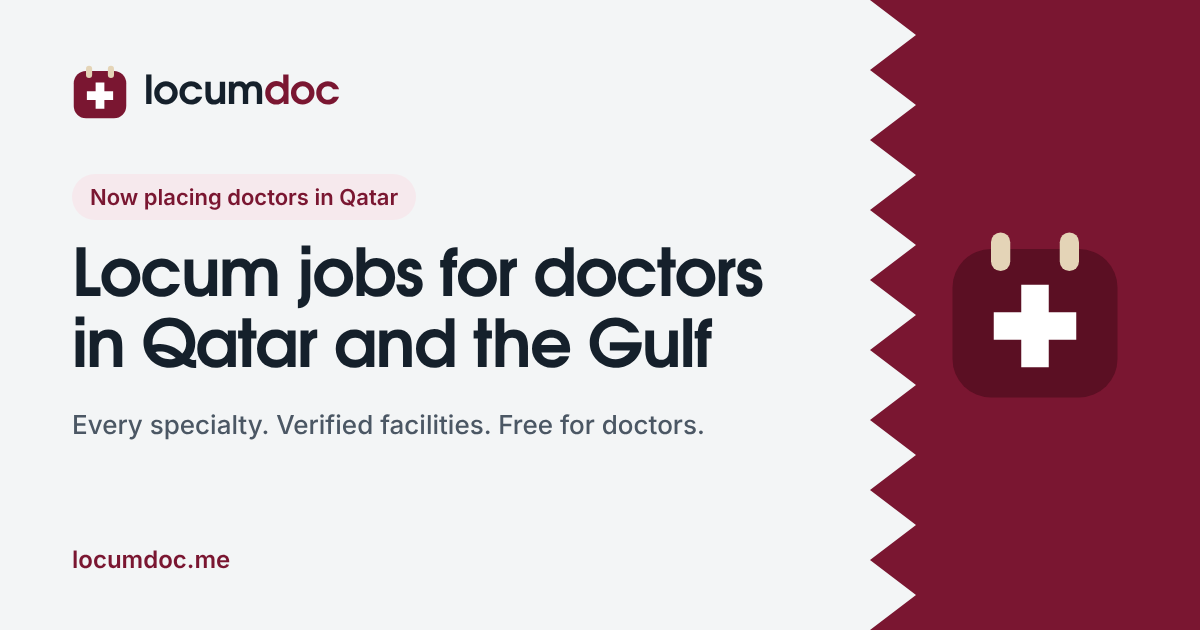
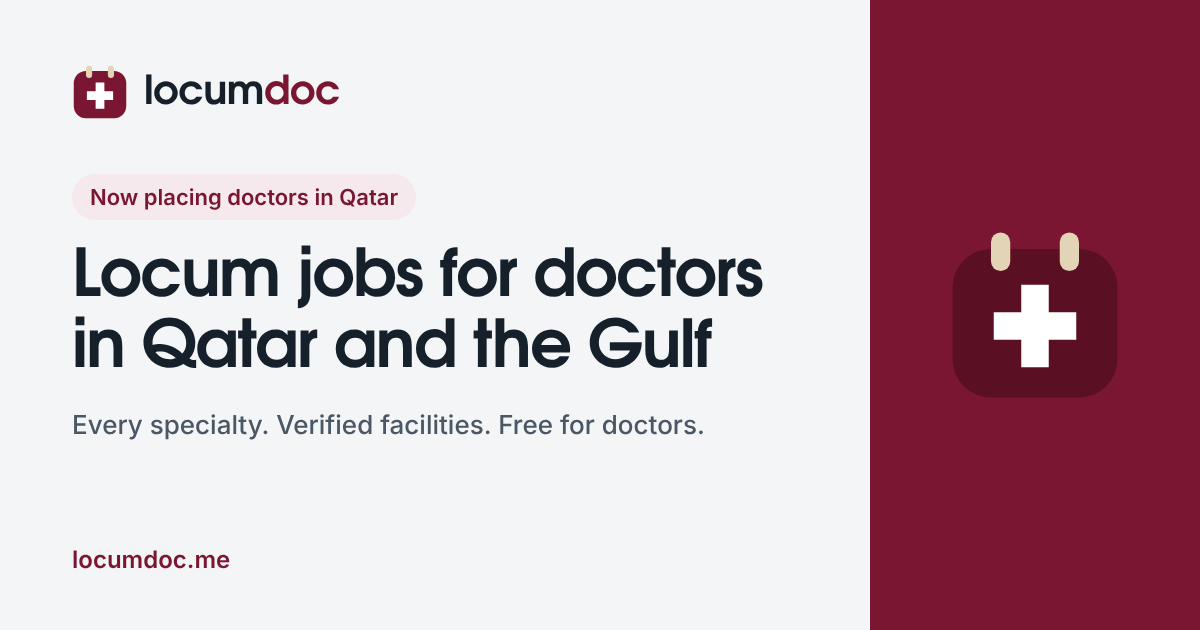
Remove the Qatar flag's serrated edge from the site
- Maroon "How it works" band (home, for facilities) now has a straight edge (.serrated → .band-maroon)
- Hero badges use a map-pin icon instead of the Qatar flag
- Share image (og-en.png) regenerated without the serrated band edge

Claude-Session: https://claude.ai/code/session_01DV4wxzqYCoerpeWRUMkk1p

Changed region(s): [[0.7092, 0.0, 0.7708, 0.9952]]

diff --git a/locumdoc/static/css/site.css b/locumdoc/static/css/site.css
@@ -125,7 +125,8 @@ p { margin: 0 0 1em; max-width: 68ch; }
 .hero { background: var(--surface); padding: clamp(40px, 7vw, 88px) 0 clamp(48px, 7vw, 96px); }
 .hero-grid { display: grid; grid-template-columns: minmax(0, 1fr) minmax(0, 1.05fr); gap: clamp(32px, 5vw, 72px); align-items: start; }
 .launch { display: inline-flex; align-items: center; gap: 10px; font-weight: 500; color: var(--ink-2); margin-bottom: 22px; }
-.launch .flag { width: 26px; height: 16px; border-radius: 2px; overflow: hidden; flex-shrink: 0; box-shadow: 0 0 0 1px var(--line); }
+.launch .pin { width: 28px; height: 28px; border-radius: 999px; background: var(--maroon-soft); color: var(--maroon); display: inline-flex; align-items: center; justify-content: center; flex-shrink: 0; }
+.launch .pin svg { width: 15px; height: 15px; }
 .hero h1 { font-size: clamp(2.5rem, 5.4vw, 4.25rem); line-height: 1.02; letter-spacing: -0.03em; margin-bottom: 24px; }
 .hero .lede { font-size: var(--s1); color: var(--ink-2); max-width: 46ch; margin-bottom: 32px; }
 .hero-ctas { display: flex; flex-wrap: wrap; gap: 12px; }
@@ -153,16 +154,11 @@ p { margin: 0 0 1em; max-width: 68ch; }
 .board-empty p { margin-bottom: 14px; }
 .board-foot { padding: 14px 22px; background: #1b2733; font-size: var(--s-1); color: #9aa6b2; }
 
-/* serrated maroon band (from the Qatari flag's nine-point edge) */
-.serrated { position: relative; background: var(--maroon); color: #fff; padding: clamp(56px, 8vw, 96px) 0; }
-.serrated::before {
-  content: ""; position: absolute; left: 0; right: 0; top: -17px; height: 18px; background: var(--maroon);
-  -webkit-mask: conic-gradient(from 135deg at top, #0000, #000 1deg 89deg, #0000 90deg) 50% / 34px 100%;
-          mask: conic-gradient(from 135deg at top, #0000, #000 1deg 89deg, #0000 90deg) 50% / 34px 100%;
-}
-.serrated h2, .serrated h3 { color: #fff; }
-.serrated p { color: #f0dce2; }
-.serrated a { color: #fff; }
+/* maroon band */
+.band-maroon { position: relative; background: var(--maroon); color: #fff; padding: clamp(56px, 8vw, 96px) 0; }
+.band-maroon h2, .band-maroon h3 { color: #fff; }
+.band-maroon p { color: #f0dce2; }
+.band-maroon a { color: #fff; }
 .tracks { display: grid; grid-template-columns: 1fr 1fr; gap: clamp(32px, 6vw, 80px); margin-top: 40px; }
 .track h3 { font-size: var(--s2); padding-bottom: 16px; border-bottom: 1px solid #9a3a54; margin-bottom: 8px; }
 .steps { list-style: none; margin: 0; padding: 0; counter-reset: step; }
@@ -171,10 +167,10 @@ p { margin: 0 0 1em; max-width: 68ch; }
 .steps strong { display: block; font-weight: 600; margin-bottom: 4px; color: #fff; }
 .steps span { color: #f0dce2; }
 .track .btn { margin-top: 24px; }
-.serrated .btn-outline { background: transparent; color: #fff; border-color: #b45a73; }
-.serrated .btn-outline:hover { border-color: #fff; }
-.serrated .btn-light { background: #fff; color: var(--maroon); }
-.serrated .btn-light:hover { background: var(--sand-soft); }
+.band-maroon .btn-outline { background: transparent; color: #fff; border-color: #b45a73; }
+.band-maroon .btn-outline:hover { border-color: #fff; }
+.band-maroon .btn-light { background: #fff; color: var(--maroon); }
+.band-maroon .btn-light:hover { background: var(--sand-soft); }
 
 /* ---------------------------------------------------------------- sections */
 .section { padding: clamp(56px, 8vw, 104px) 0; }

diff --git a/locumdoc/templates/partials/macros.html b/locumdoc/templates/partials/macros.html
@@ -6,10 +6,6 @@
 <a class="brand" href="{{ href }}" aria-label="{{ _('LocumDoc home') }}">{{ mark() }}<span>locum<b>doc</b></span></a>
 {%- endmacro %}
 
-{% macro qatar_flag() -%}
-<svg class="flag" viewBox="0 0 28 11" preserveAspectRatio="none" aria-hidden="true"><rect width="28" height="11" fill="#7a1631"/><path d="M0 0h8l2 0.6111 -2 0.6111 2 0.6111 -2 0.6111 2 0.6111 -2 0.6111 2 0.6111 -2 0.6111 2 0.6111 -2 0.6111 2 0.6111 -2 0.6111 2 0.6111 -2 0.6111 2 0.6111 -2 0.6111 2 0.6111 -2 0.6111H0z" fill="#fff"/></svg>
-{%- endmacro %}
-
 {% macro icon(name) -%}
 {%- if name == 'pin' -%}<svg viewBox="0 0 16 16" fill="none" stroke="currentColor" stroke-width="1.5" aria-hidden="true"><path d="M8 14s5-4.3 5-8A5 5 0 0 0 3 6c0 3.7 5 8 5 8Z"/><circle cx="8" cy="6" r="1.8"/></svg>
 {%- elif name == 'cal' -%}<svg viewBox="0 0 16 16" fill="none" stroke="currentColor" stroke-width="1.5" aria-hidden="true"><rect x="2" y="3" width="12" height="11" rx="2"/><path d="M2 7h12M5.5 1.5v3M10.5 1.5v3"/></svg>

diff --git a/locumdoc/templates/public/home.html b/locumdoc/templates/public/home.html
@@ -5,7 +5,7 @@
 <section class="hero">
   <div class="wrap hero-grid">
     <div>
-      <div class="launch">{{ m.qatar_flag() }} {{ _('Now placing doctors in Qatar') }}</div>
+      <div class="launch"><span class="pin">{{ m.icon('pin') }}</span> {{ _('Now placing doctors in Qatar') }}</div>
       <h1>{{ _('Locum work in the Gulf, matched to your specialty.') }}</h1>
       <p class="lede">{{ _('Build one profile, upload your CV once, and apply to locum cover at verified hospitals and clinics. Facilities post the shifts they need and invite doctors directly.') }}</p>
       <div class="hero-ctas" data-hero-cta>
@@ -43,7 +43,7 @@
   </div>
 </section>
 
-<section class="serrated" aria-labelledby="how-title">
+<section class="band-maroon" aria-labelledby="how-title">
   <div class="wrap">
     <h2 id="how-title">{{ _('How LocumDoc works') }}</h2>
     <p>{{ _('Two sides, one platform. Doctors show what they can cover and when. Facilities show what they need.') }}</p>

diff --git a/locumdoc/templates/public/for_facilities.html b/locumdoc/templates/public/for_facilities.html
@@ -10,7 +10,7 @@
 <section class="hero">
   <div class="wrap hero-grid">
     <div>
-      <div class="launch">{{ m.qatar_flag() }} {{ _('For facilities in Qatar') }}</div>
+      <div class="launch"><span class="pin">{{ m.icon('pin') }}</span> {{ _('For facilities in Qatar') }}</div>
       <h1>{{ _('Cover the rota before the gap opens.') }}</h1>
       <p class="lede">{{ _("Post locum jobs, receive applications with CVs attached, and search a directory of doctors who've told you their specialty, availability and DHP licensing status up front.") }}</p>
       <div class="hero-ctas" data-hero-cta>
@@ -34,7 +34,7 @@
   </div>
 </section>
 
-<section class="serrated">
+<section class="band-maroon">
   <div class="wrap">
     <h2>{{ _('From vacancy to placed doctor') }}</h2>
     <div class="tracks">

diff --git a/locumdoc/templates/public/country_qatar.html b/locumdoc/templates/public/country_qatar.html
@@ -3,7 +3,7 @@
 {% block description %}How DHP licensing works for locum doctors in Qatar: verification, evaluation, the qualifying exam, locum and temporary licences, and the documents you'll need.{% endblock %}
 {% block main %}
 <div class="wrap page-head">
-  <div class="launch">{{ m.qatar_flag() }} Qatar</div>
+  <div class="launch"><span class="pin">{{ m.icon('pin') }}</span> Qatar</div>
   <h1>Working as a locum doctor in Qatar</h1>
   <p>What to expect from licensing, documents and placements, based on the published guidelines of the Department of Healthcare Professions.</p>
   <div class="hero-ctas" data-hero-cta>

diff --git a/locumdoc/templates/base.html b/locumdoc/templates/base.html
@@ -29,7 +29,7 @@
   <link rel="manifest" href="{{ url_for('public.manifest') }}">
   <meta name="theme-color" content="#7a1631">
   <link rel="preload" href="{{ url_for('static', filename='fonts/adventor-700.woff') }}" as="font" type="font/woff" crossorigin>
-  <link rel="stylesheet" href="{{ url_for('static', filename='css/site.css') }}?v=9">
+  <link rel="stylesheet" href="{{ url_for('static', filename='css/site.css') }}?v=10">
   {% block head %}{% endblock %}
 </head>
 <body>

diff --git a/tools/make_brand_assets.py b/tools/make_brand_assets.py
@@ -31,15 +31,6 @@ BAND_MARK = ('<svg class="mark" viewBox="0 0 32 32" aria-hidden="true">'
              '<rect x="20.5" y="1" width="3.5" height="7" rx="1.75" fill="#e4d4b7"/>'
              '<path d="M13.5 10.5h5v5h5v5h-5v5h-5v-5h-5v-5h5z" fill="#fff"/></svg>')
 
-# The serrated edge of the Qatari flag: nine white points against maroon.
-def serration(height=630, teeth=9, depth=46):
-    step = height / teeth
-    pts = ["0,0"]
-    for i in range(teeth):
-        pts.append(f"{depth},{i * step + step / 2:.1f}")
-        pts.append(f"0,{(i + 1) * step:.1f}")
-    return f'<svg class="teeth" viewBox="0 0 {depth} {height}" preserveAspectRatio="none"><polygon points="{" ".join(pts)}" fill="#f3f5f6"/></svg>'
-
 FONT_CSS = f"""
 @font-face {{ font-family: Adventor; src: url({FONTS}/adventor-700.woff); font-weight: 700; }}
 @font-face {{ font-family: Inter; src: url({FONTS}/inter-500.woff); font-weight: 500; }}
@@ -69,8 +60,6 @@ h1 {{ margin-top: 22px; font-family: {c['font']}; font-weight: 700; font-size: {
 p {{ margin-top: 22px; font-size: 26px; line-height: 1.4; color: #4b5764; font-weight: 500; max-width: 720px; }}
 .url {{ margin-top: auto; font-family: Inter; font-weight: 600; font-size: 24px; color: #7a1631; direction: ltr; align-self: flex-start; }}
 .band {{ width: 330px; background: #7a1631; position: relative; display: flex; align-items: center; justify-content: center; }}
-.band .teeth {{ position: absolute; top: 0; height: 630px; width: 46px; left: 0; }}
-[dir=rtl] .band .teeth {{ left: auto; right: 0; transform: scaleX(-1); }}
 .band .mark {{ width: 176px; height: 176px; }}
 </style></head><body>
 <div class="copy">
@@ -80,7 +69,7 @@ p {{ margin-top: 22px; font-size: 26px; line-height: 1.4; color: #4b5764; font-w
   <p>{c['sub']}</p>
   <div class="url">locumdoc.me</div>
 </div>
-<div class="band">{serration()}{BAND_MARK}</div>
+<div class="band">{BAND_MARK}</div>
 </body></html>"""
 
 
